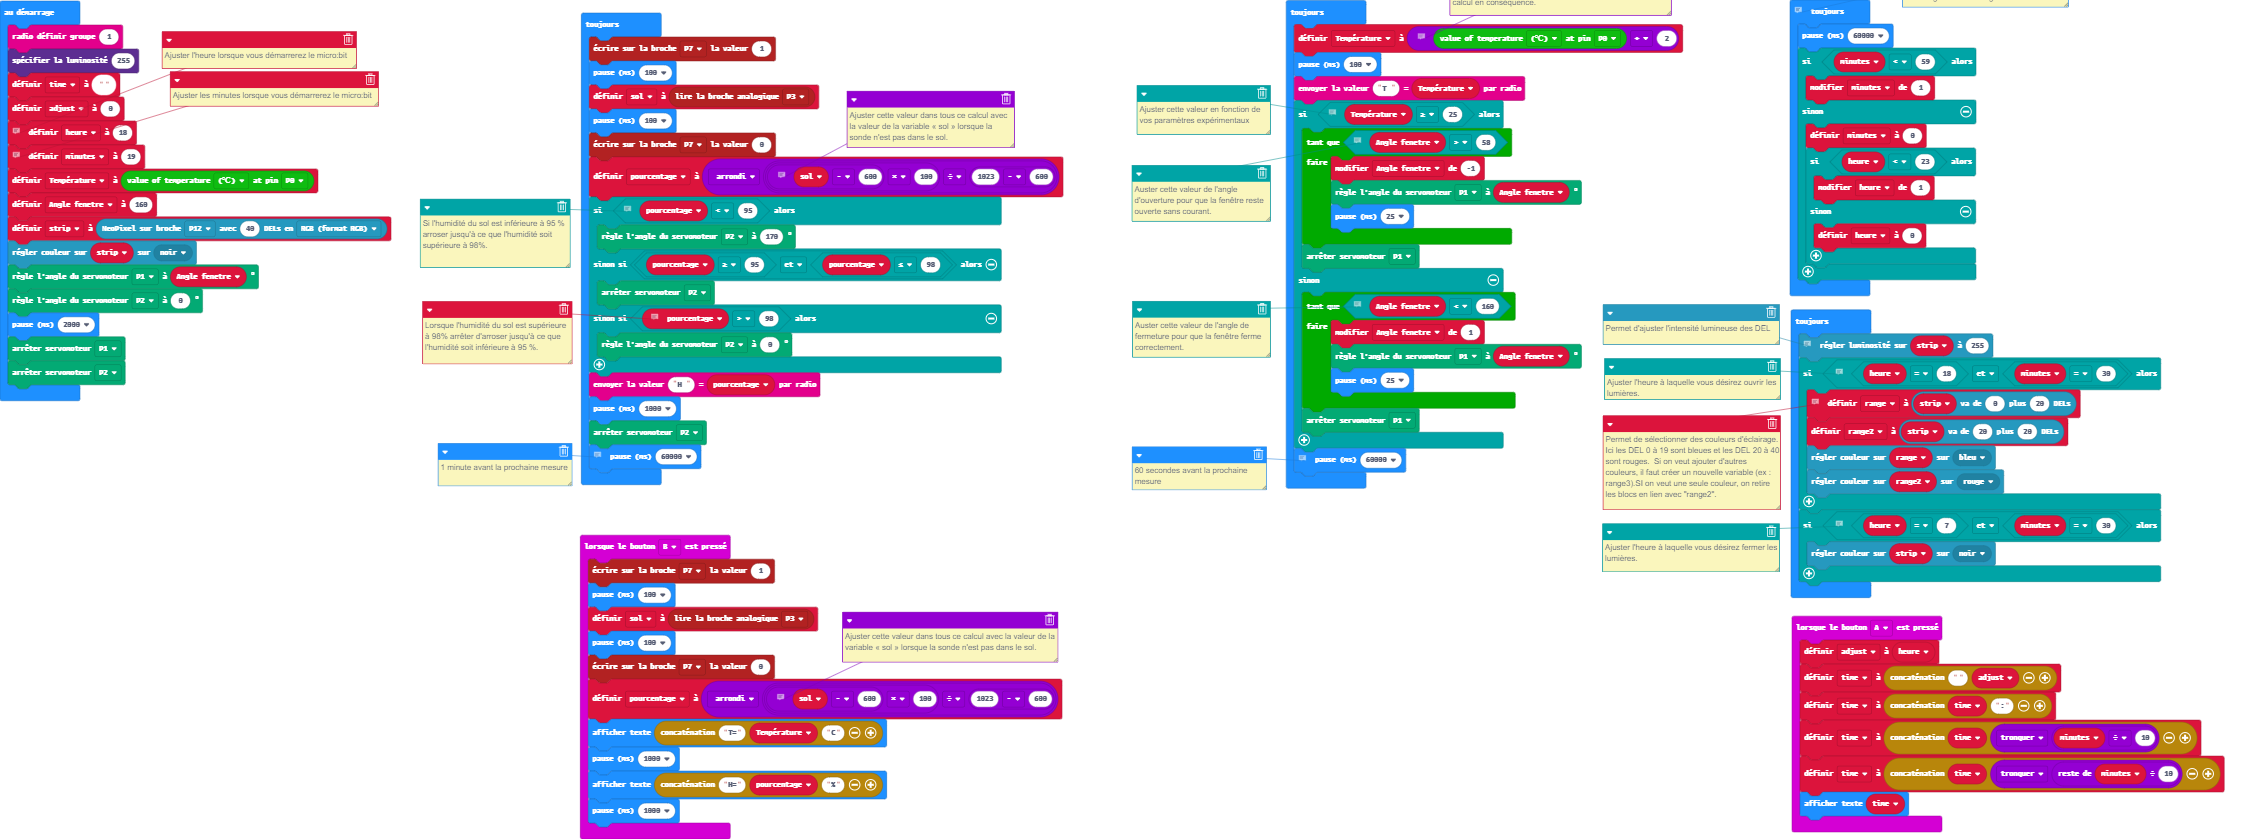
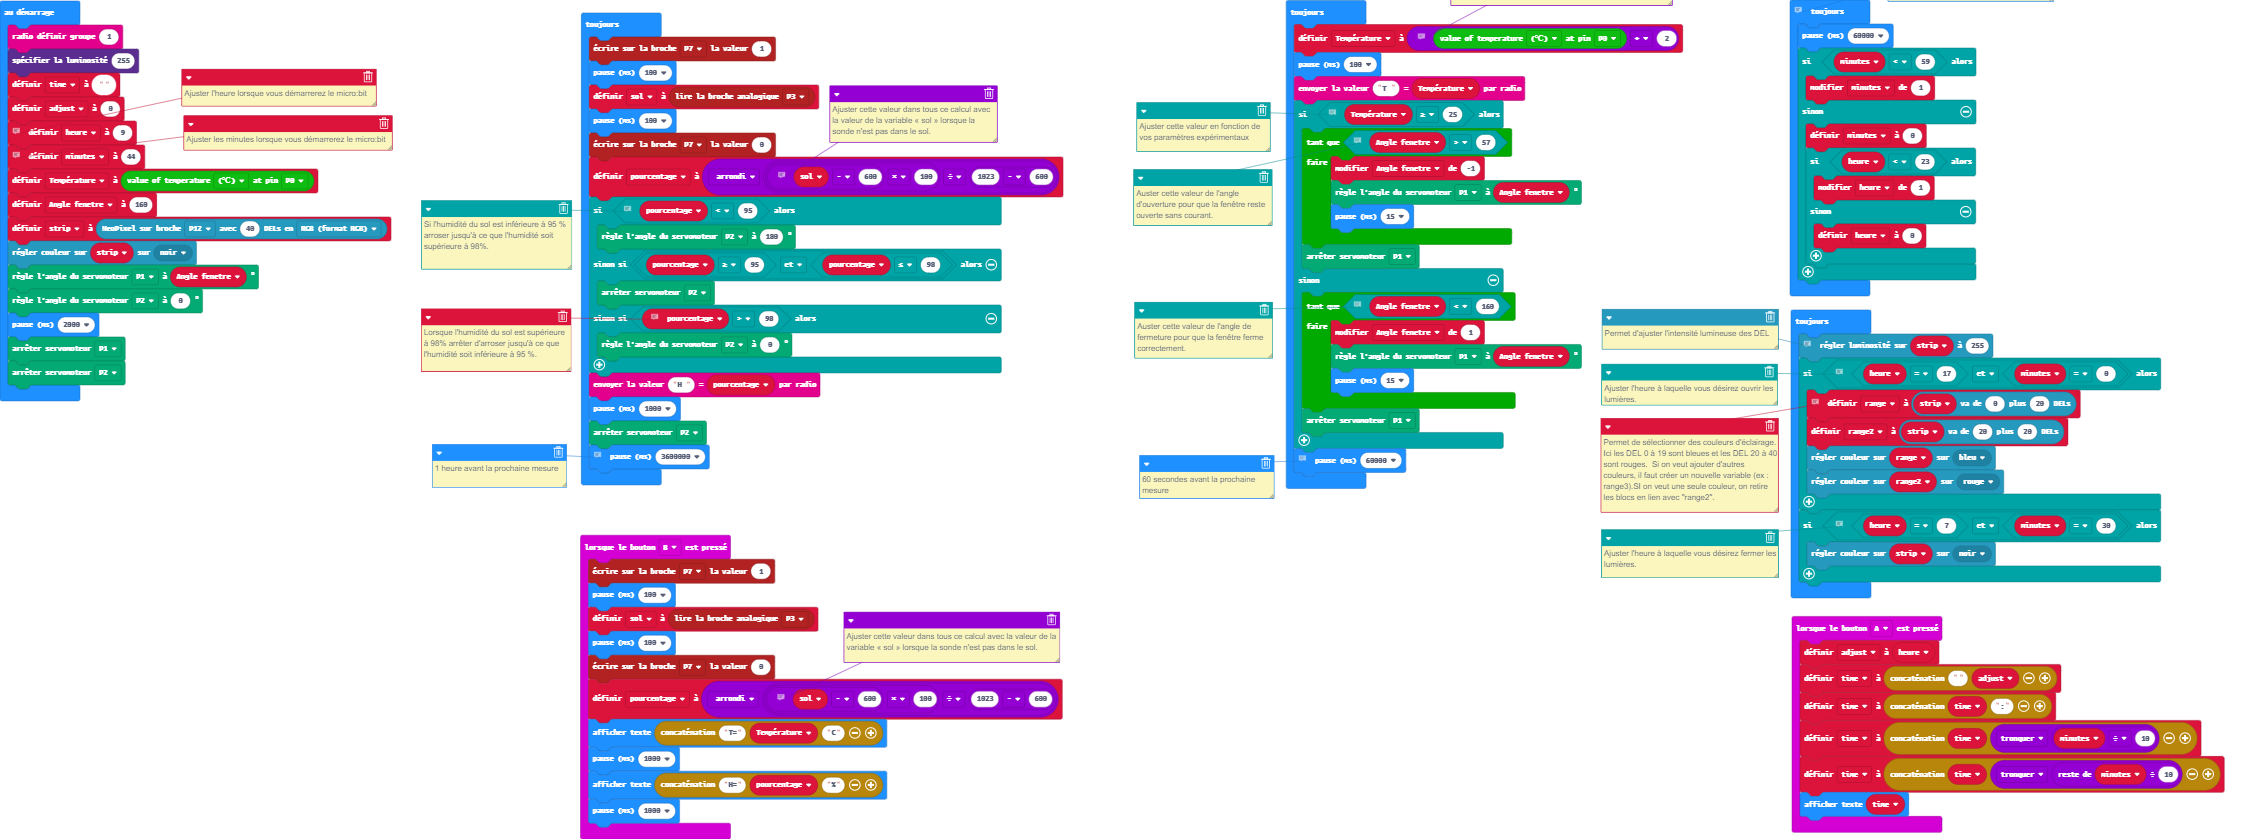
Restaurer '15/12/2020 à 09:48:39 Mise à jour main.blocks, main.ts'

diff --git a/main.ts b/main.ts
@@ -33,9 +33,9 @@ led.setBrightness(255)
 time = ""
 adjust = 0
 // Ajuster l'heure lorsque vous démarrerez le micro:bit
-heure = 18
+heure = 9
 // Ajuster les minutes lorsque vous démarrerez le micro:bit
-minutes = 19
+minutes = 44
 Température = smarthome.ReadTemperature(TMP36Type.TMP36_temperature_C, AnalogPin.P0)
 let Angle_fenetre = 160
 let strip = neopixel.create(DigitalPin.P12, 40, NeoPixelMode.RGB)
@@ -56,7 +56,7 @@ basic.forever(function () {
     // Si l'humidité du sol est inférieure à 95 % arroser jusqu'à ce que l'humidité soit supérieure à 98%.
     // Lorsque l'humidité du sol est supérieure à 98% arrêter d'arroser jusqu'à ce que l'humidité soit inférieure à 95 %.
     if (pourcentage < 95) {
-        servos.P2.setAngle(170)
+        servos.P2.setAngle(180)
     } else if (pourcentage >= 95 && pourcentage <= 98) {
         servos.P2.stop()
     } else if (pourcentage > 98) {
@@ -65,8 +65,8 @@ basic.forever(function () {
     radio.sendValue("H ", pourcentage)
     basic.pause(1000)
     servos.P2.stop()
-    // 1 minute avant la prochaine mesure
-    basic.pause(60000)
+    // 1 heure avant la prochaine mesure
+    basic.pause(3600000)
 })
 basic.forever(function () {
     // Calibrer votre sonde avec un autre thermomètre et ajuster le calcul en conséquence.
@@ -76,10 +76,10 @@ basic.forever(function () {
     // Ajuster cette valeur en fonction de vos paramètres expérimentaux
     if (Température >= 25) {
         // Auster cette valeur de l'angle d'ouverture pour que la fenêtre reste ouverte sans courant.
-        while (Angle_fenetre > 58) {
+        while (Angle_fenetre > 57) {
             Angle_fenetre += -1
             servos.P1.setAngle(Angle_fenetre)
-            basic.pause(25)
+            basic.pause(15)
         }
         servos.P1.stop()
     } else {
@@ -87,7 +87,7 @@ basic.forever(function () {
         while (Angle_fenetre < 160) {
             Angle_fenetre += 1
             servos.P1.setAngle(Angle_fenetre)
-            basic.pause(25)
+            basic.pause(15)
         }
         servos.P1.stop()
     }
@@ -112,7 +112,7 @@ basic.forever(function () {
     // Permet d'ajuster l'intensité lumineuse des DEL
     strip.setBrightness(255)
     // Ajuster l'heure à laquelle vous désirez ouvrir les lumières.
-    if (heure == 18 && minutes == 30) {
+    if (heure == 17 && minutes == 0) {
         // Permet de sélectionner des couleurs d'éclairage.  Ici les DEL 0 à 19 sont bleues et les DEL 20 à 40 sont rouges.  Si on veut ajouter d'autres couleurs, il faut créer un nouvelle variable (ex : range3).SI on veut une seule couleur, on retire les blocs en lien avec "range2".
         range = strip.range(0, 20)
         range2 = strip.range(20, 20)
